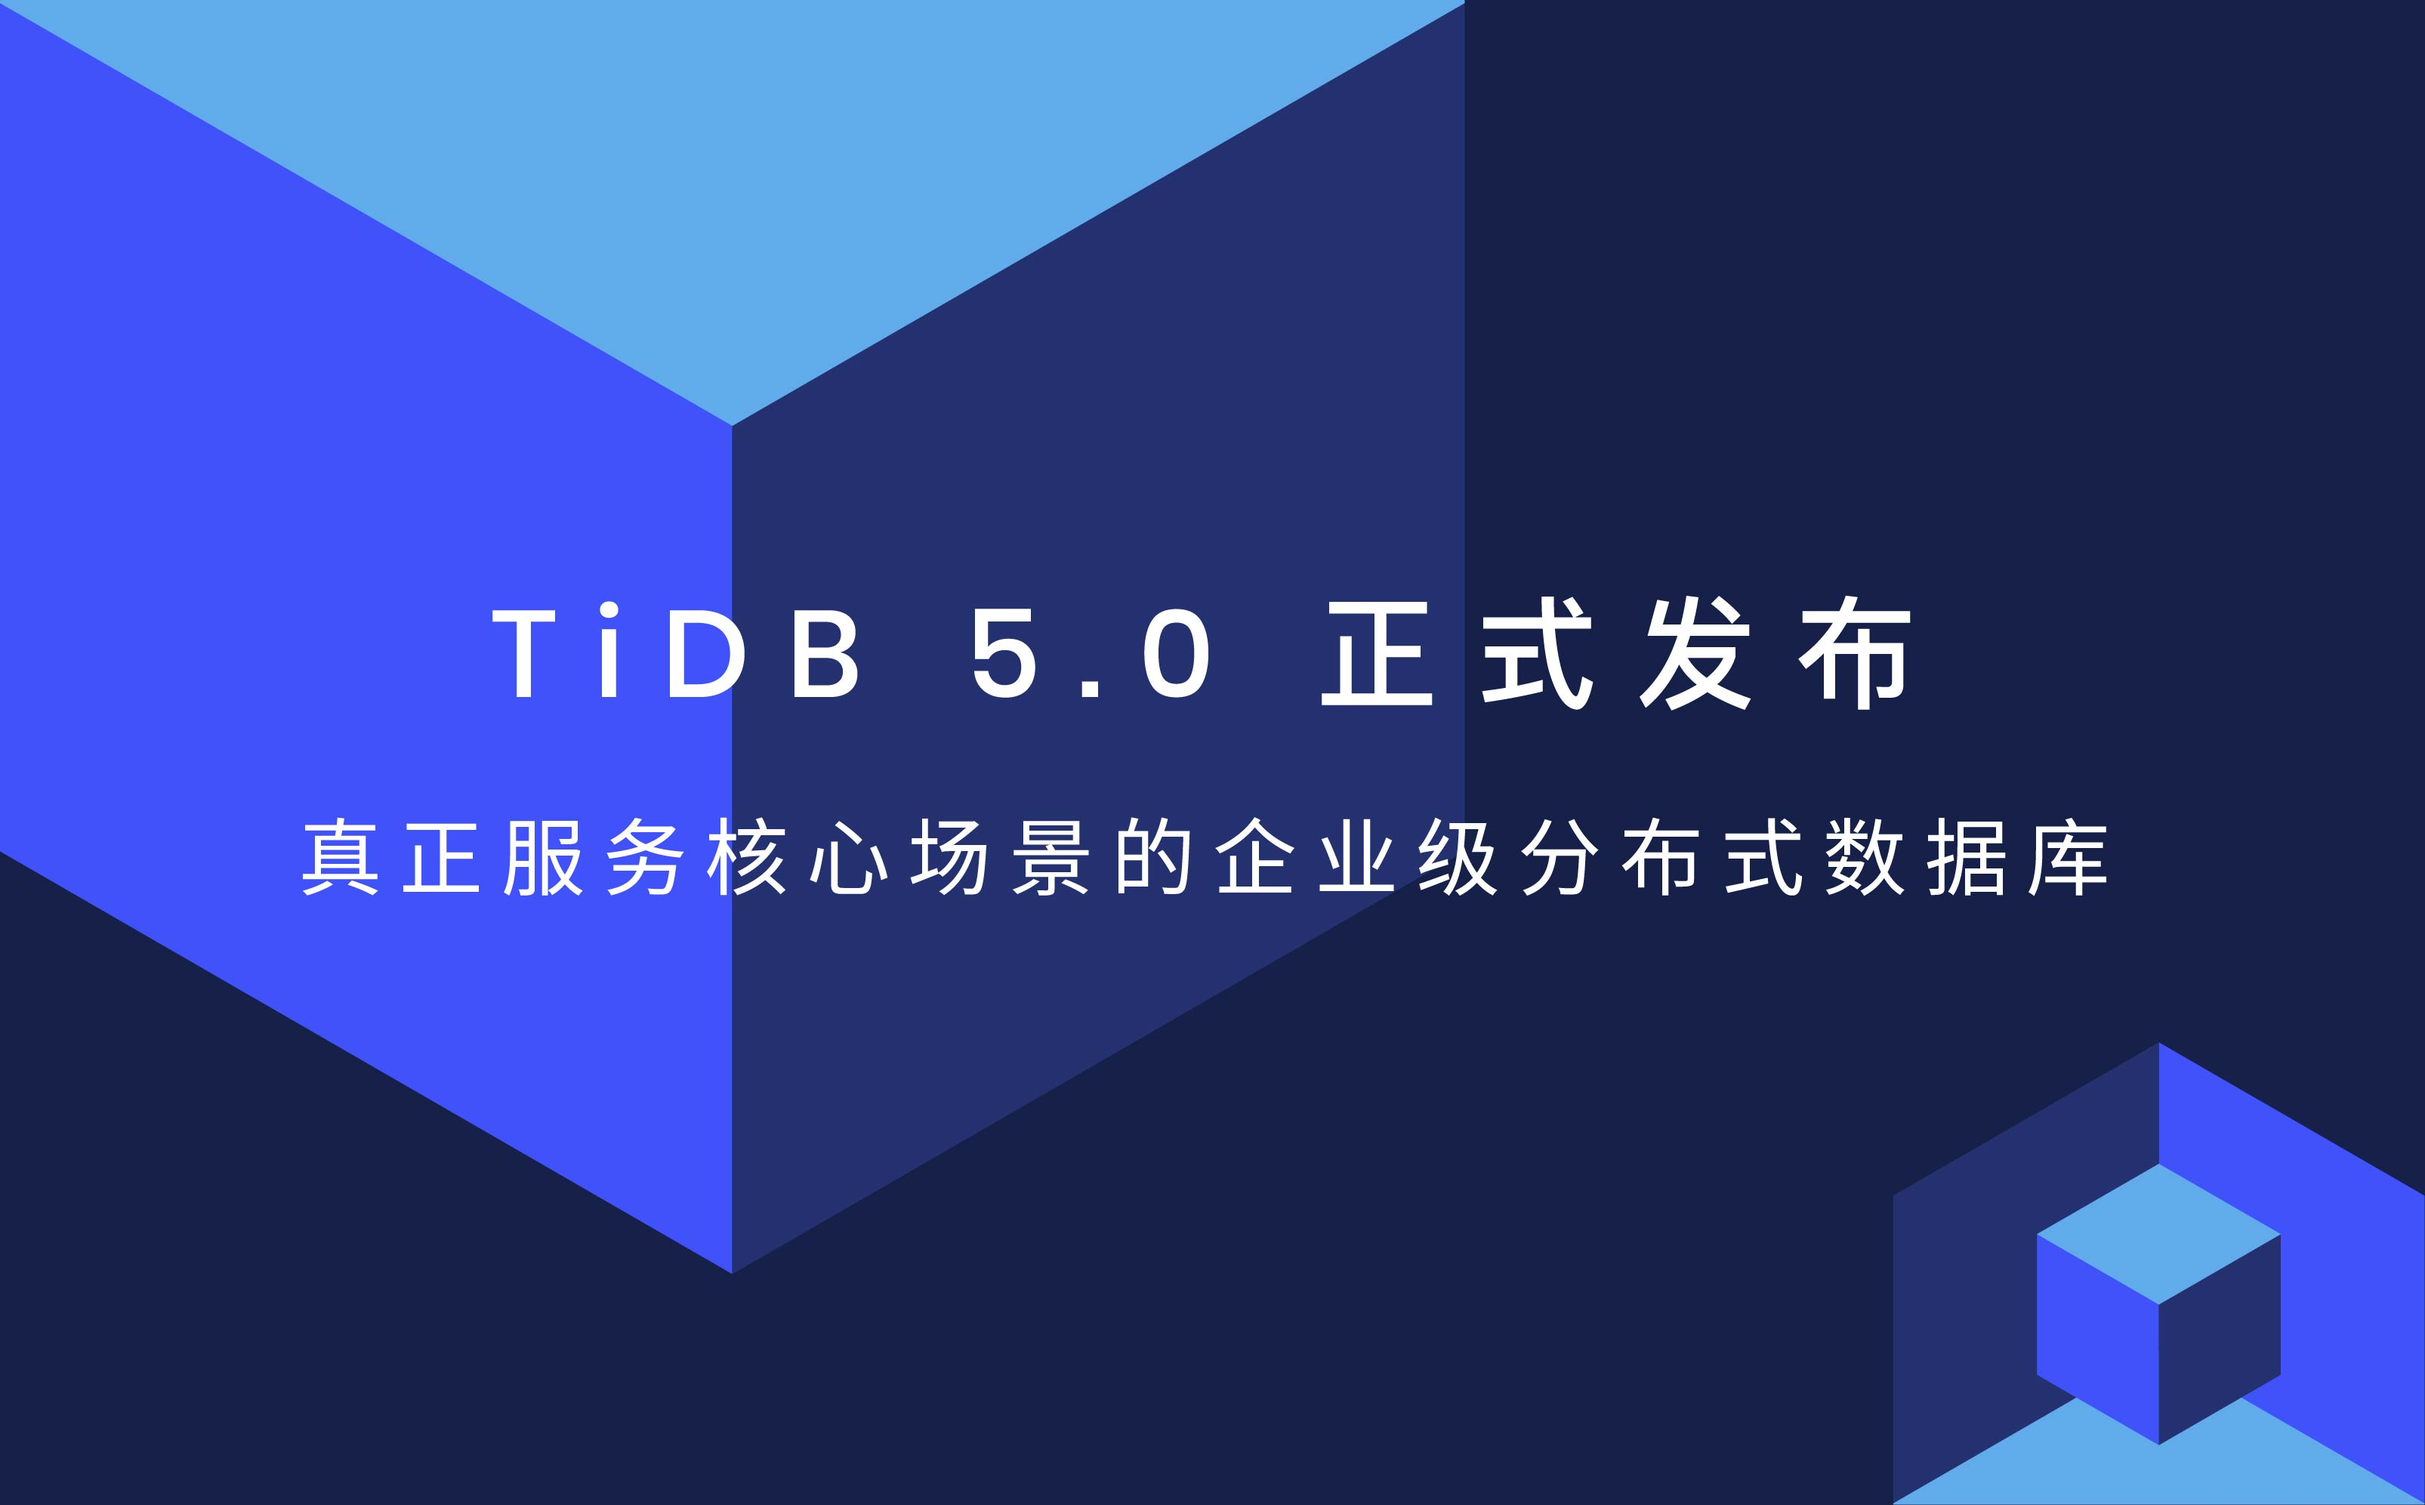
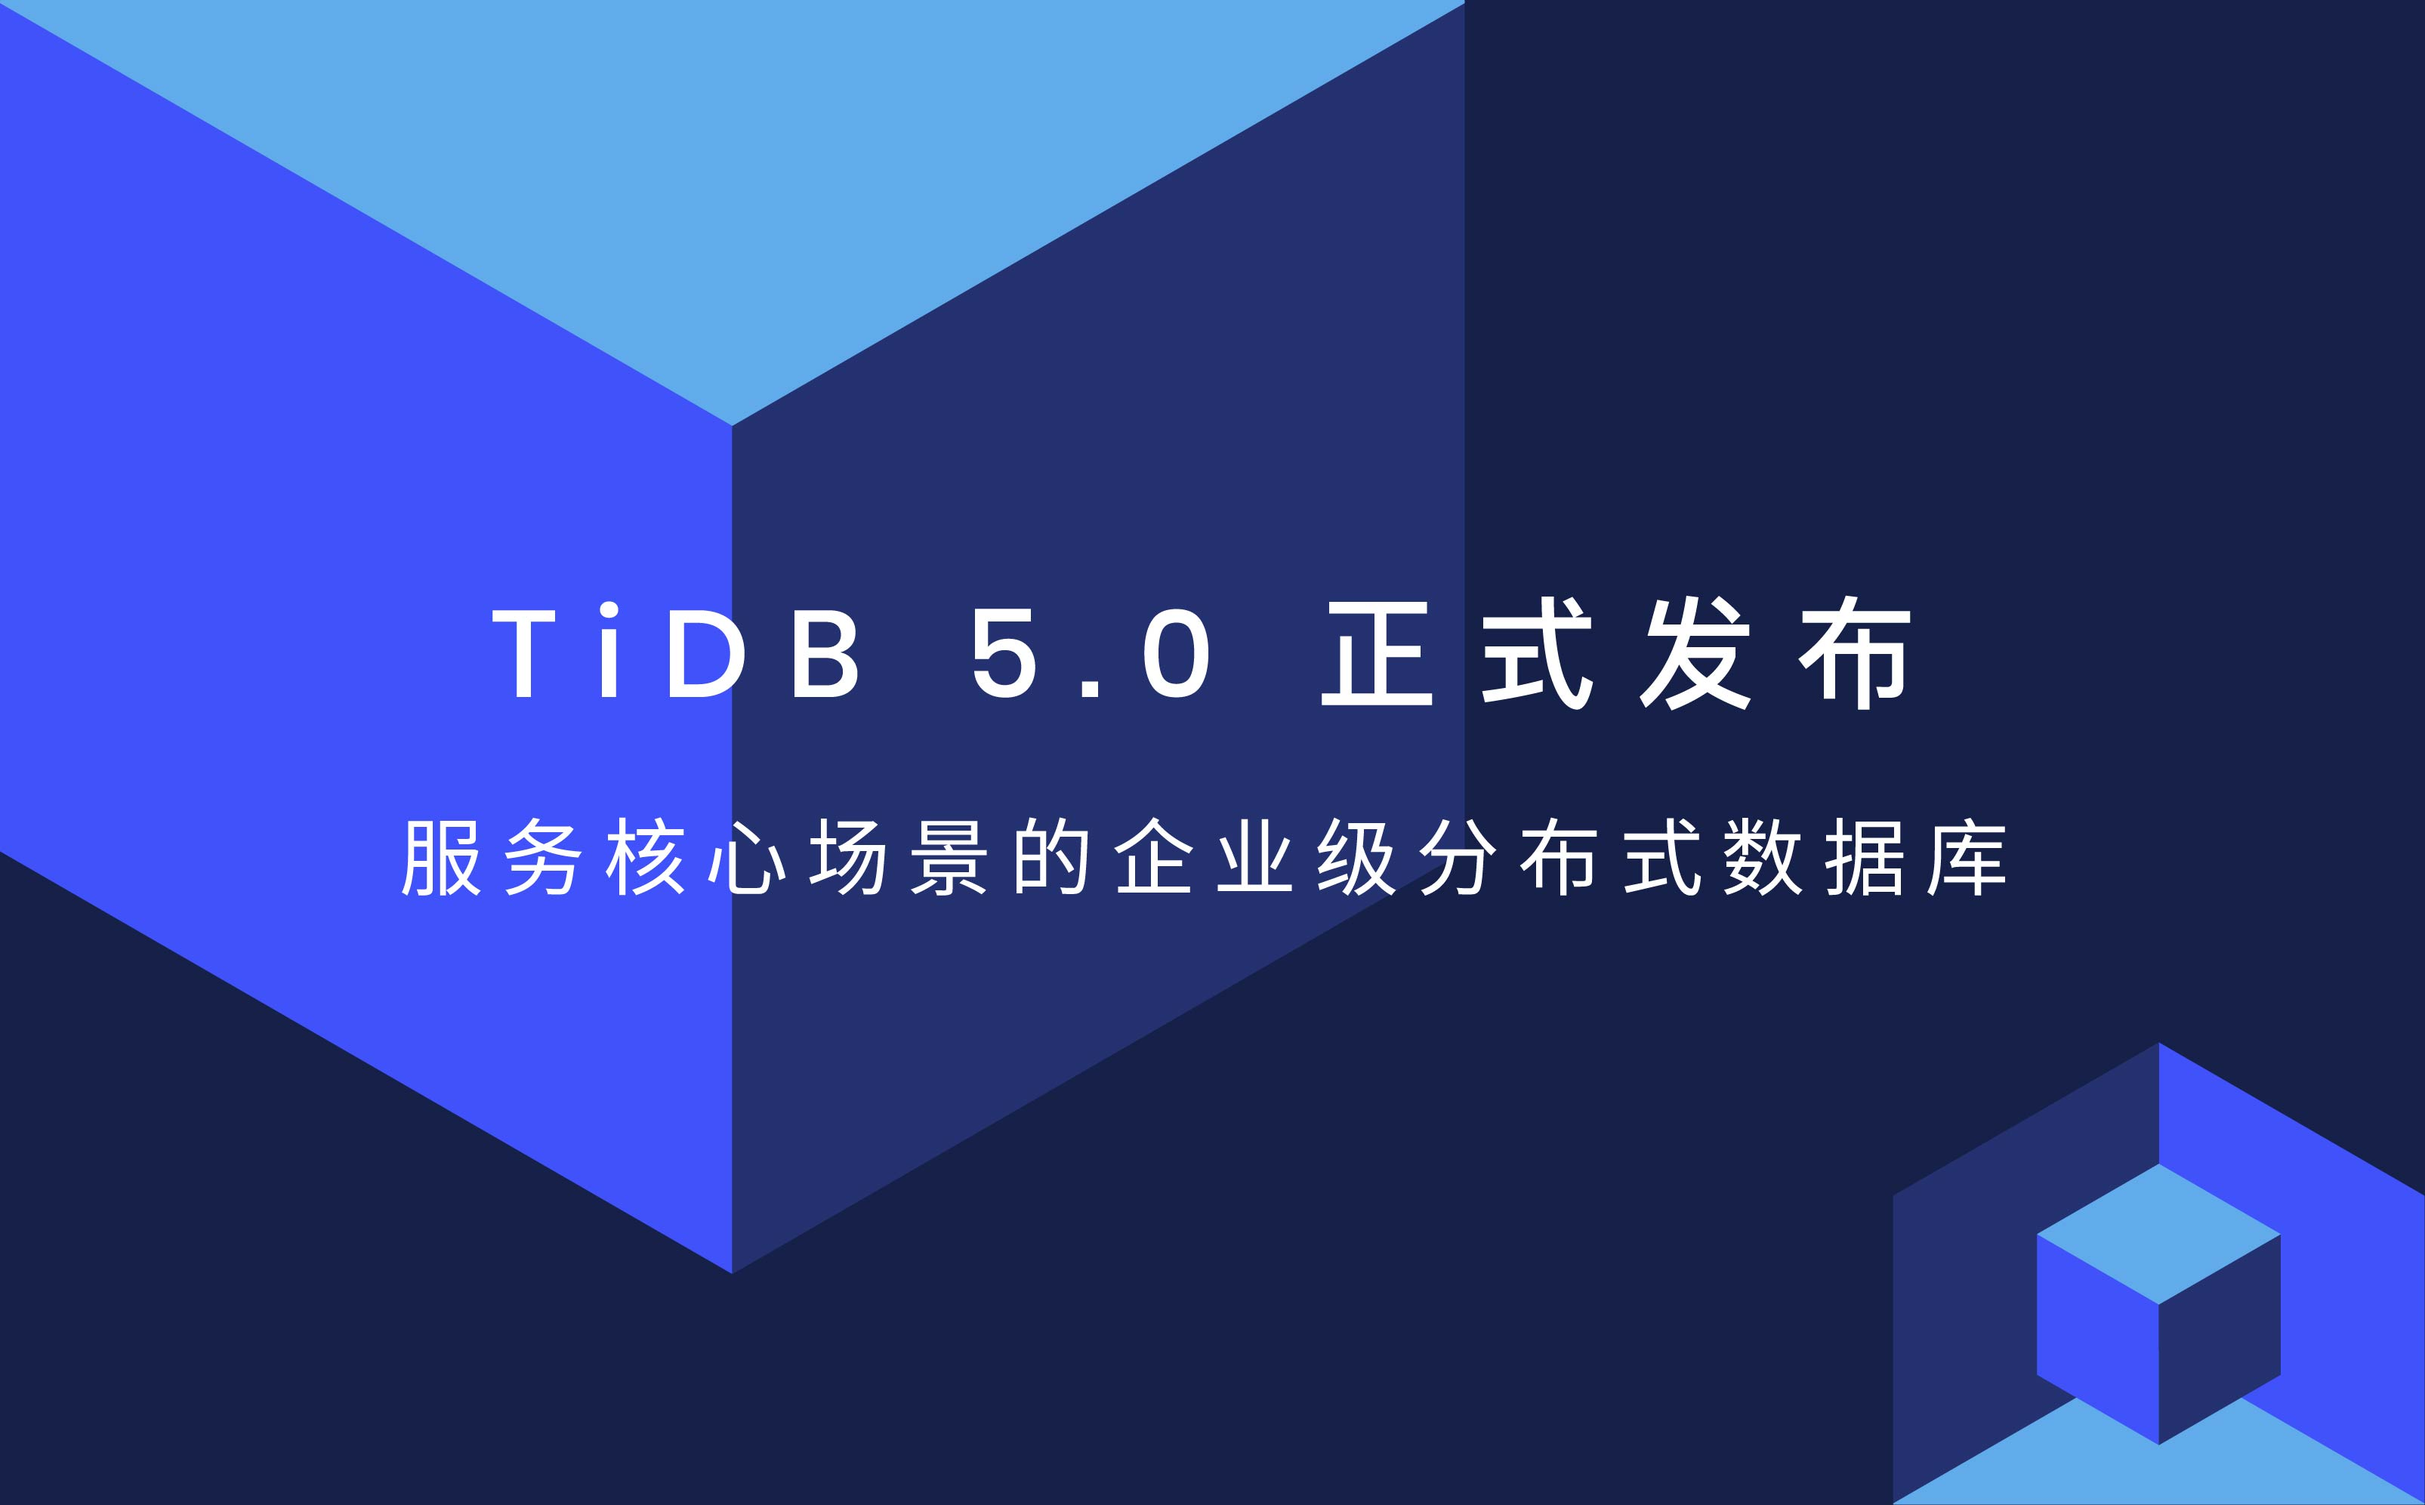
chore: update feedback

Changed region(s): [[0.1246, 0.5289, 0.872, 0.5911]]

diff --git a/src/less/campaign/tidb-v5.0.less b/src/less/campaign/tidb-v5.0.less
@@ -20,32 +20,33 @@
 }
 
 .read-more {
-    position: relative;
-    margin-top: 1rem;
-    transition: 0.5s;
-    padding-left: 0;
-    font-size: @P1;
-    color: @btnBlue;
+    a {
+        position: relative;
+        margin-top: 1rem;
+        transition: 0.5s;
+        padding-left: 0;
+        font-size: @P1;
+        color: @btnBlue;
 
-    &:hover {
-        padding-left: 1rem;
-
-        a {
+        &:hover {
+            padding-left: 1rem;
             color: @btnBlue;
+
+            &::after {
+                opacity: 1;
+                left: 0;
+            }
         }
 
         &::after {
-            opacity: 1;
-            left: 0;
+            content: '➔';
+            position: absolute;
+            opacity: 0;
+            left: -1rem;
+            top: 50%;
+            transform: translateY(-50%);
+            transition: opacity .5s, left .5s;
         }
-    }
-
-    &::after {
-        content: '➔';
-        position: absolute;
-        opacity: 0;
-        left: -1rem;
-        transition: opacity .5s, left .5s;
     }
 }
 
@@ -71,16 +72,12 @@ section {
 .campaign-v5 {
     &-hero {
         position: relative;
-        padding-top: 49%;
-        height: 0;
         background: url('/images/campaign/tidb-v5.0/hero-pc.svg');
         background-repeat: no-repeat;
         background-size: cover;
 
-        .container {
-            position: absolute;
-            left: 4rem;
-            top: 10rem;
+        .hero-body {
+            padding: 15rem 0;
         }
 
         .slogan {
@@ -94,8 +91,7 @@ section {
             &-subtitle {
                 display: flex;
                 align-items: center;
-                padding: 2rem 0;
-                margin-bottom: 3rem;
+                padding: 0.5rem 0 2rem;
                 font-size: @H1;
 
                 img {
@@ -107,6 +103,12 @@ section {
             .book-btn button {
                 color: #2D3758;
                 background: white;
+
+                &:hover {
+                    color: white;
+                    background: #0A2559;
+                    transition: 0.1s ease-in-out;
+                }
             }
         }
 
@@ -144,7 +146,7 @@ section {
             padding: 5rem 0;
             margin: 0 auto;
             text-align: center;
-            width: 80%;
+            width: 83%;
             font-size: @P1;
             font-family: Lato-light;
             line-height: 1.75;
@@ -160,7 +162,7 @@ section {
         background: @bgGrey;
 
         .columns {
-            padding-bottom: 8rem;
+            padding-bottom: 5rem;
 
             &.reverse {
                 flex-direction: row-reverse;
@@ -196,6 +198,10 @@ section {
 
     &-ribbon {
         padding: 0;
+
+        img {
+            width: 100%;
+        }
 
         .mobile {
             display: none;
@@ -321,17 +327,12 @@ section {
         &-hero {
             text-align: center;
             position: relative;
-            padding-top: 80%;
             background: url('/images/campaign/tidb-v5.0/hero-mobile.svg');
             background-repeat: no-repeat;
             background-size: cover;
 
-            .container {
-                padding: 6rem 0 2rem;
-                width: 100%;
-                top: 50%;
-                left: 50%;
-                transform: translate(-50%, -50%);
+            .hero-body {
+                padding: 16rem 0;
             }
 
             .slogan {
@@ -444,6 +445,16 @@ section {
                         height: auto;
                     }
                 }
+            }
+        }
+    }
+}
+
+@media (max-width: 412px) {
+    .campaign-v5 {
+        &-hero {
+            .hero-body {
+                padding: 6rem 0;
             }
         }
     }

diff --git a/layouts/campaign/tidb-v5.0.html b/layouts/campaign/tidb-v5.0.html
@@ -13,20 +13,23 @@
 
 {{- define "main" -}}
 <section class="campaign-v5-hero">
-    <div class="container">
-        <div class="slogan">
-            <div class="slogan-title">TiDB 5.0 正式发布</div>
-            <div class="slogan-subtitle">
-                <img class="tidb-logo" src="/images/campaign/tidb-v5.0/tidb-logo.svg" />
-                <p>真正服务核心场景的企业级分布式数据库</p>
+    <div class="hero-body">
+        <div class="container">
+            <div class="slogan">
+                <div class="slogan-title">TiDB 5.0 正式发布</div>
+                <div class="slogan-subtitle">
+                    <img class="tidb-logo" src="/images/campaign/tidb-v5.0/tidb-logo.svg" />
+                    <p>服务核心场景的企业级分布式数据库</p>
+                </div>
+                <a class="book-btn" href="https://forms.pingcap.com/f/5-0-form"><button>抢先试用</button></a>
             </div>
-            <a class="book-btn" href="https://forms.pingcap.com/f/5-0-form"><button>预约试用</button></a>
         </div>
     </div>
+
 </section>
 <section class="campaign-v5-intro">
     <div class="container">
-        <a class="book-btn-mobile" href="https://forms.pingcap.com/f/5-0-form"><button>预约试用</button></a>
+        <a class="book-btn-mobile" href="https://forms.pingcap.com/f/5-0-form"><button>抢先试用</button></a>
         <div class="intro">
             <p>经过近一年紧锣密鼓的开发和打磨，TiDB 5.0 具备金融行业核心业务场景的服务能力，成为真正服务核心场景的企业级分布式数据库。</p>
             <p>TiDB 5.0 性能与稳定性得到显著提升，从而拥有更强大的 OLTP 金融级核心场景服务能力；在原有 HTAP 引擎 TiFlash 基础上引入 MPP 架构，使得众多企业的实时/交互式 BI
@@ -144,7 +147,7 @@
                     <div class="icons">
                         <img src="/images/campaign/tidb-v5.0/icon-1.svg" />
                     </div>
-                    <div class="detail">报名成功即可获得，我们将为所有报名用户提供一份 PingCAP 最新定制周边礼品。
+                    <div class="detail">报名成功即可获得，我们将为所有报名用户提供一份 TiDB 最新定制周边礼品。
                     </div>
                 </div>
             </div>
